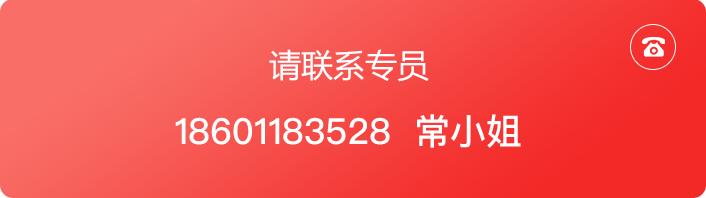
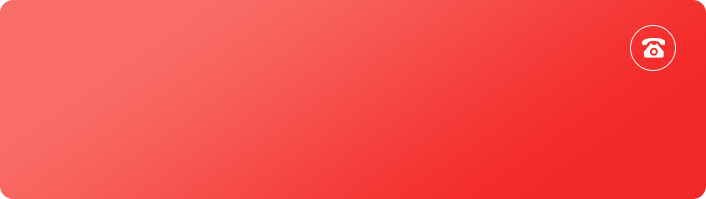
更新网站BUG

diff --git a/src/components/FlightList.vue b/src/components/FlightList.vue
@@ -505,18 +505,22 @@
                   let dels = []
                   for (let i=0; i<len; i++){
                     let sitem = slist[i]
-                    for(let m=0; m<sitem.length; m++){
-                      let _ix = clist.indexOf(sitem[m].AirCode.substr(0,2))
-                      if (_ix > -1) {
-                        sitem[m].airinfo = regs.data.aircomInfo[_ix]
-                      }
-                      for (let t=0; t<sitem[m].otherFlight.length; t++) {
-                        let _of = sitem[m].otherFlight[t]
-                        let _ixof = clist.indexOf(_of.AirCode.substr(0,2))
-                        if (_ixof > -1) {
-                          _of.airinfo = regs.data.aircomInfo[_ixof]
+                    if (sitem.length > 0) {
+                      for(let m=0; m<sitem.length; m++){
+                        let _ix = clist.indexOf(sitem[m].AirCode.substr(0,2))
+                        if (_ix > -1) {
+                          sitem[m].airinfo = regs.data.aircomInfo[_ix]
+                        }
+                        for (let t=0; t<sitem[m].otherFlight.length; t++) {
+                          let _of = sitem[m].otherFlight[t]
+                          let _ixof = clist.indexOf(_of.AirCode.substr(0,2))
+                          if (_ixof > -1) {
+                            _of.airinfo = regs.data.aircomInfo[_ixof]
+                          }
                         }
                       }
+                    } else {
+                      dels.push(i)
                     }
                     if(vue.flightType === '往返'){
                       let eitem = elist[i]
@@ -647,13 +651,14 @@
 
   //航班排序
   function compare(dlist){
+    console.log(dlist)
     let zf = [];
     let zz = [];
     zf = dlist.filter(function(i){
-      return i[0].otherFlight.length<1
+      return i && i[0].otherFlight.length<1
     })
     zz = dlist.filter(function(i){
-      return i[0].otherFlight.length>0 && i[0].piaojia
+      return i && i[0].otherFlight.length>0 && i[0].piaojia
     })
     zz.sort(function(x,y){
       return parseInt(x[0].piaojia.TicketPrice) - parseInt(y[0].piaojia.TicketPrice)

diff --git a/src/components/FirstCabin.vue b/src/components/FirstCabin.vue
@@ -18,6 +18,10 @@
         </div>
         <div class="fimg">
             <img src="../assets/images/firstcb_15.png" alt="">
+            <div class="lk-method">
+                <div>请联系专员</div>
+                <div class="me-tel"><a href="tel:18601183528">18601183528&nbsp;&nbsp;&nbsp;常小姐</a></div>
+            </div>
         </div>
         <Service></Service>
         <Footer></Footer>
@@ -52,6 +56,26 @@ export default {
     .fimg{
         margin-top: .32rem;
         padding: 0 .24rem;
+        position: relative;
+    }
+    .lk-method{
+        position: absolute;
+        left: 0;
+        top: 0;
+        width: 100%;
+        text-align: center;
+        color: #fff;
+        font-size: .32rem;
+        font-family: 'Microsoft YaHei UI', sans-serif;
+        padding-top: .5rem;
+        .me-tel{
+            font-size: .36rem;
+            font-family: '苹方', '黑体', sans-serif;
+            margin-top: .1rem;
+            a{
+                color: #fff;
+            }            
+        }
     }
     .service-box{
         margin-top: .48rem;

diff --git a/src/components/AddPerson.vue b/src/components/AddPerson.vue
@@ -594,11 +594,11 @@ function countAmount(vue){
     let len = vue.PersonList.length
     let amount = 0
     for(let i in vue.PersonList){
-        if(vue.PersonList[i].type == '1'){
-            amount += p + t
-        }else{
-            amount += p*0.75 + t
-        }
+        //if(vue.PersonList[i].type == '1'){
+        amount += p + t
+        // }else{
+        //     amount += p*0.75 + t
+        // }
     }
     vue.amountPrice = amount
 }
